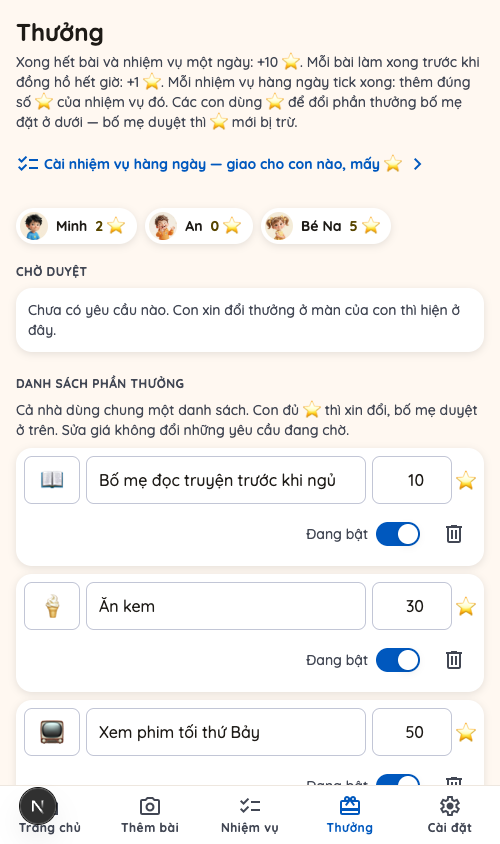
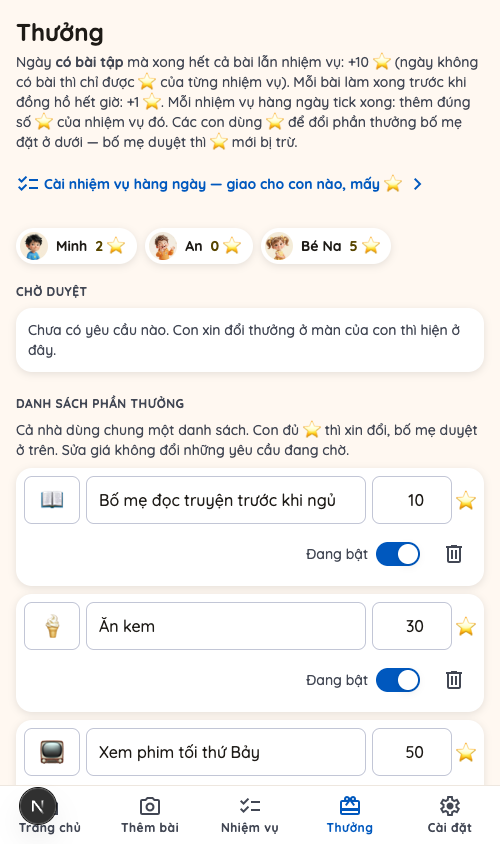
no-mistakes(review): fix: một hàng rào ngày đã qua dùng chung, sửa chữ hứa +10

Changed region(s): [[0.03, 0.0616, 0.96, 0.955], [0.03, 0.7393, 0.06, 0.7701]]

diff --git a/lib/store.ts b/lib/store.ts
@@ -443,35 +443,10 @@ export async function saveSubmission(input: {
   //
   // ĐỪNG BỎ loi goi nay du no khong con can cho HIEN THI (tu #42 tao luoi da
   // chay o man cua con, progressUpcoming va chi tiet con cua bo me; man cua con
-  // cung khong ve dong cua ngay mai nua — xem lib/nhomNhiemVu.ts). No dang gac
-  // +10 CUA NGAY MAI: `ghiDiemSauKhiXong` goi `congDiemNgayNeuXong` voi ngay cua
-  // chinh bai vua tick, va ham do +10 khi MOI dong cua (con, ngay do) da 'done'
-  // — khong co kiem "ngay do da toi chua". Bo me nhap bai ngay mai toi nay, con
-  // lam het bai ngay mai ngay toi nay (duoc phep, co ve duoi "Ngày mai"): neu
-  // dong nhiem vu cua ngay mai chua ton tai thi tap dong cua ngay mai chi co bai
-  // -> +10 cua ngay mai cong NGAY TOI NAY, sang mai con tick nhiem vu that thi
-  // khong con gi de cong. Dong 'todo' tao san chinh la cai chan do — hai test
-  // "bai cua NGAY MAI lam xong toi nay..." va "cai gia neu KHONG tao san dong
-  // nhiem vu cua ngay mai..." trong lib/tinh-diem.test.ts ghim ca hai nhanh.
-  //
-  // Day la hang rao BEST-EFFORT: khoi duoi nuot loi (xem ngay duoi), nen mot lan
-  // INSERT that bat (Neon rot ket noi) la +10 cua ngay mai co the cong som ma
-  // khong bao gi. Doi thanh chac chan thi phai them kiem "ngay do da toi chua"
-  // vao congDiemNgayNeuXong — nhung the lai mo lo khac: con khong duoc giao
-  // nhiem vu nao ma lam het bai ngay mai toi nay thi sang mai KHONG con cu tick
-  // nao de kich +10 (cong diem theo su kien, khong co cron).
-  //
-  // Idempotent nen goi thua khong sao.
-  //
-  // Nuot loi, y het seedDefaultChores o insertFamily: cac dong bai tap that o
-  // tren da ghi xong va khong chung transaction voi khoi nay, nen nem loi len se
-  // tra 500 cho mot dot nhap DA THANH CONG — bo me nhap lai la sinh ban sao ca
-  // dot bai. Bai tap la bat buoc, nhiem vu chi la "co thi tot".
-  try {
-    await taoNhiemVuNgay(input.familyId, input.dueDate, childIds);
-  } catch (e) {
-    console.error('Khong tao duoc dong nhiem vu cho ngay', input.dueDate, e);
-  }
+  // cung khong ve dong cua ngay mai nua — xem lib/nhomNhiemVu.ts): no dang GAC
+  // +10 cua ngay mai. Ly do day du + hang rao ngay da qua o
+  // `taoNhiemVuNgayNeuChuaQua` ben duoi.
+  await taoNhiemVuNgayNeuChuaQua(input.familyId, input.dueDate, childIds);
 
   return created;
 }
@@ -768,11 +743,14 @@ export const VIEC_NHA_SUBJECT = 'Việc nhà';
  * tao moi dong mot lan, hai request mo man cung luc cung khong tao trung, va
  * khong can buoc SELECT-kiem-truoc nao. Khong co gi de chen thi la no-op re.
  *
- * Goi tu: man cua con (hom nay, con do), progressUpcoming (hom nay, ca nha —
- * man chon-con va tong quan bo me), man chi tiet con cua bo me, va
- * saveSubmission (ngay cua dot bai, cac con duoc giao — ke ca ngay mai). Ngay
- * khong ai mo man thi khong co dong cho ngay do — chap nhan: khong ai tick thi
- * cung khong co gi de ghi.
+ * NAM noi goi: (1) man cua con (hom nay, con do), (2) progressUpcoming (hom nay,
+ * ca nha — man chon-con va tong quan bo me), (3) man chi tiet con cua bo me,
+ * (4) saveSubmission (ngay cua dot bai) va (5) xuLySauKhiDoiHanChot (ngay MOI khi
+ * bo me doi han chot). Ba noi dau luon truyen HOM NAY; hai noi sau truyen ngay
+ * BO ME CHON nen goi qua `taoNhiemVuNgayNeuChuaQua` — ham nay khong tu chan ngay
+ * qua khu (no chi la mot cau SQL, va ba tep test mo phong dung no). Ngay khong ai
+ * mo man thi khong co dong cho ngay do — chap nhan: khong ai tick thi cung khong
+ * co gi de ghi.
  *
  * CHEP stars/icon/content vao dong luc tao (tien le: content o 013, gia phan
  * thuong o 015): bo me sua cau hinh sau do chi anh huong dong tao SAU. Nhom thi
@@ -801,20 +779,58 @@ export async function taoNhiemVuNgay(
 }
 
 /**
+ * `taoNhiemVuNgay` cho hai duong mà NGAY do BO ME CHON (nhap bai, doi han chot) —
+ * mot cho duy nhat giu ca hai luat, de khong con noi nao phai nho:
+ *
+ * 1. CHI tao cho ngay TU HOM NAY TRO DI. Ngay da qua thi khong con gi phai gac
+ *    (khong the cong +10 som cho no nua), ma them mot dong 'todo' KHONG AI TICK
+ *    DUOC (man cua con liet ke tu hom nay) la khoa luon +10 cua ngay do mai mai:
+ *    bo me nhap bu mot bai cho ngay 1/9 sau khi vua them mot nhiem vu moi thi
+ *    ngay 1/9 nhan mot dong nhiem vu la, va ngay do khong bao gio "xong het" nua.
+ * 2. Ngay TU HOM NAY TRO DI thi PHAI tao — day la hang rao "+10 cua ngay mai":
+ *    `congDiemNgayNeuXong` +10 khi MOI dong cua (con, ngay do) da 'done' va
+ *    KHONG kiem "ngay do da toi chua". Bo me nhap bai / doi han chot sang NGAY
+ *    MAI roi con lam xong bai do ngay toi nay (duoc phep, co ve duoi "Ngày mai"):
+ *    neu dong nhiem vu cua ngay mai chua ton tai thi tap dong cua ngay mai chi co
+ *    bai -> +10 cua ngay mai cong NGAY TOI NAY, sang mai con lam nhiem vu that
+ *    thi khong con gi de cong. Dong 'todo' tao san chinh la cai chan do.
+ *    Doi thanh chac chan bang cach them kiem "ngay do da toi chua" vao
+ *    `congDiemNgayNeuXong` thi mo lo khac: con khong duoc giao nhiem vu nao ma
+ *    lam het bai ngay mai toi nay thi sang mai KHONG con cu tick nao de kich +10
+ *    (cong diem theo su kien, khong co cron).
+ *
+ * BEST-EFFORT, nuot loi y het seedDefaultChores o insertFamily: cac dong bai tap
+ * that da ghi xong va khong chung transaction voi loi goi nay, nem loi len se tra
+ * 500 cho mot dot nhap / mot lan sua DA THANH CONG — bo me lam lai la sinh ban
+ * sao ca dot bai. Bai tap la bat buoc, nhiem vu chi la "co thi tot". Nghia la mot
+ * lan INSERT that bat (Neon rot ket noi) van co the de +10 cong som ma khong bao
+ * gi. Idempotent nen goi thua khong sao.
+ *
+ * Test ghim ca ba nhanh (tao cho ngay mai / khong tao cho ngay da qua / cai gia
+ * neu khong tao) o lib/tinh-diem.test.ts.
+ */
+async function taoNhiemVuNgayNeuChuaQua(
+  familyId: string,
+  date: string,
+  childIds: string[] | null
+): Promise<void> {
+  if (date < todayISO()) return;
+  try {
+    await taoNhiemVuNgay(familyId, date, childIds);
+  } catch (e) {
+    console.error('Khong tao duoc dong nhiem vu cho ngay', date, e);
+  }
+}
+
+/**
  * Hai viec phai lam SAU KHI bo me doi han chot cua mot bai (route PATCH
  * /api/assignments/:id, nhanh bo me) — de o lop nay chu khong o tep route vi ca
  * hai la LUAT, va bo test PGlite chi voi tay den duoc lop nay:
  *
  * 1. Ngay MOI phai co dong nhiem vu cua no — cung hang rao ma saveSubmission
- *    dung: `congDiemNgayNeuXong` KHONG kiem "ngay do da toi chua", nen doi mot
- *    bai sang NGAY MAI roi con lam xong bai do ngay toi nay se lam tap dong cua
- *    ngay mai chi con mot bai -> +10 cua ngay mai bay ra som mot ngay, va sang
- *    mai con lam nhiem vu that thi khong con gi de cong.
- *    CHI tao cho ngay TU HOM NAY TRO DI: ngay da qua thi khong con gi phai gac
- *    (khong the cong som cho no nua), ma them dong 'todo' khong ai tick duoc
- *    (man cua con liet ke tu hom nay) la khoa luon +10 cua ngay do mai mai.
- *    Nuot loi y het saveSubmission: dong bai da ghi xong va khong chung
- *    transaction, nem loi len la tra 500 cho mot lan sua DA THANH CONG.
+ *    dung, cung mot ham: `taoNhiemVuNgayNeuChuaQua` (doc chu thich o do de biet
+ *    vi sao PHAI tao cho ngay tu hom nay tro di va vi sao KHONG tao cho ngay da
+ *    qua).
  * 2. Ngay CU vua BOT mot dong: cac dong con lai co the da done het, ma con thi
  *    khong tick gi nua nen duong cua con khong bao gio xet lai. Xet o day,
  *    idempotent nen an toan.
@@ -825,13 +841,7 @@ export async function xuLySauKhiDoiHanChot(
   ngayCu: string,
   ngayMoi: string
 ): Promise<void> {
-  if (ngayMoi >= todayISO()) {
-    try {
-      await taoNhiemVuNgay(familyId, ngayMoi, [childId]);
-    } catch (e) {
-      console.error('Khong tao duoc dong nhiem vu cho ngay', ngayMoi, e);
-    }
-  }
+  await taoNhiemVuNgayNeuChuaQua(familyId, ngayMoi, [childId]);
   await congDiemNgayNeuXong(familyId, childId, ngayCu);
 }
 

diff --git a/lib/tinh-diem.test.ts b/lib/tinh-diem.test.ts
@@ -169,9 +169,14 @@ async function ghiDiem(asgId: string, familyId = 'fam_cu') {
  * Ca cu tick cua con: danh dau xong luc `nowMs` kem moc bat dau `startedAtMs`
  * (null = khong bam dong ho), roi route ghi diem.
  */
-async function tickXong(asgId: string, startedAtMs: number | null, nowMs = Date.now()) {
+async function tickXong(
+  asgId: string,
+  startedAtMs: number | null,
+  nowMs = Date.now(),
+  familyId = 'fam_cu'
+) {
   await danhDauXong(asgId, startedAtMs, nowMs);
-  return ghiDiem(asgId);
+  return ghiDiem(asgId, familyId);
 }
 
 /** `sao` = stars cua dong nhiem vu (chep tu cau hinh luc tao); bo trong = NULL = dong cu / bai that. */
@@ -606,8 +611,18 @@ async function giaoBai(
   opts: { taoNhiemVu?: boolean } = {}
 ) {
   const bai = await themBai(childId, dueDate);
-  if (opts.taoNhiemVu !== false) await taoNhiemVuNgay(familyId, dueDate, childId);
+  if (opts.taoNhiemVu !== false) await taoNhiemVuNeuChuaQua(familyId, dueDate, childId);
   return bai;
+}
+
+/**
+ * Mo phong `taoNhiemVuNgayNeuChuaQua` (lib/store.ts): hai duong bo me tu chon
+ * ngay (nhap bai, doi han chot) chi tao dong nhiem vu cho ngay TU HOM NAY TRO DI.
+ */
+async function taoNhiemVuNeuChuaQua(familyId: string, dueDate: string, childId: string) {
+  const [{ hom_nay }] = await rows(`SELECT CURRENT_DATE::text AS hom_nay`);
+  if (dueDate < String(hom_nay)) return;
+  await taoNhiemVuNgay(familyId, dueDate, childId);
 }
 
 /**
@@ -671,9 +686,8 @@ async function doiNgay(
     [asgId]
   );
   await db.query(`UPDATE assignments SET due_date = $2::date WHERE id = $1`, [asgId, ngayMoi]);
-  const [{ hom_nay }] = await rows(`SELECT CURRENT_DATE::text AS hom_nay`);
-  if (opts.taoNhiemVu !== false && ngayMoi >= String(hom_nay)) {
-    await taoNhiemVuNgay(familyId, ngayMoi, String(truoc.child_id));
+  if (opts.taoNhiemVu !== false) {
+    await taoNhiemVuNeuChuaQua(familyId, ngayMoi, String(truoc.child_id));
   }
   return congDiemNgay(familyId, String(truoc.child_id), String(truoc.due_date));
 }
@@ -788,6 +802,66 @@ test('cai gia neu KHONG tao san dong nhiem vu cua ngay mai: +10 cong som mot nga
     truoc + DIEM_NGAY_XONG + 1,
     'con an +10 cho mot ngay ma luc cong chua lam nhiem vu nao'
   );
+});
+
+/**
+ * Duong nhap bai BU cho mot ngay DA QUA (o date cua /bome/them khong co `min`,
+ * bo me chon duoc ngay hom qua). Neu tao dong nhiem vu cho ngay do thi nhiem vu
+ * VUA THEM sinh ra mot dong 'todo' cho mot ngay ma man cua con khong con ve
+ * (liet ke tu hom nay) — khong ai tick duoc, va ngay do khong bao gio "xong het"
+ * nua, tuc +10 cua ngay do bi khoa mai mai.
+ *
+ * Nha rieng voi `score_since` cu (30 ngay truoc) de ngay hom qua VAN duoc tinh
+ * diem — khong thi cua chan "khong hoi to" da loai truoc, khong thay duoc gi.
+ */
+test('nhap bai bu cho ngay DA QUA: khong sinh dong nhiem vu, ngay do van cong duoc +10', async () => {
+  await db.exec(
+    `INSERT INTO families (id, name, slug, parent_pin_hash, score_since)
+     VALUES ('fam_bu', 'Nhà bù', 'nha-bu', 'h9', CURRENT_DATE - 30);
+     INSERT INTO children (id, family_id, name, grade, color, avatar_url)
+     VALUES ('con_bu', 'fam_bu', 'Bù', 'Lớp 1', 'primary', '/bu.png');
+     INSERT INTO daily_chores (id, family_id, content, sort_order)
+     VALUES ('chr_bu', 'fam_bu', 'Tắt đèn', 1)`
+  );
+  const [{ hom_qua, hom_kia }] = await rows(
+    `SELECT (CURRENT_DATE - 1)::text AS hom_qua, (CURRENT_DATE - 2)::text AS hom_kia`
+  );
+
+  // Bo me nhap bu mot bai cho HOM QUA.
+  const bai = await giaoBai('fam_bu', 'con_bu', String(hom_qua));
+  assert.deepEqual(
+    await rows(
+      `SELECT id FROM assignments
+        WHERE child_id = 'con_bu' AND due_date = $1 AND chore_id IS NOT NULL`,
+      [hom_qua]
+    ),
+    [],
+    'khong sinh dong nhiem vu nao cho ngay da qua'
+  );
+
+  const truoc = await soDu('con_bu');
+  assert.deepEqual(
+    await tickXong(bai, null, undefined, 'fam_bu'),
+    { xongSom: 0, ngayXong: DIEM_NGAY_XONG, nhiemVu: 0 },
+    'khong co dong nhiem vu la nao chan -> ngay do cong duoc +10'
+  );
+  assert.equal(await soDu('con_bu'), truoc + DIEM_NGAY_XONG);
+
+  // Cai gia neu KHONG co hang rao: mot dong nhiem vu 'todo' cua ngay da qua
+  // (dong ma man cua con khong ve) khoa luon +10 cua ngay do.
+  const baiKia = await giaoBai('fam_bu', 'con_bu', String(hom_kia), { taoNhiemVu: false });
+  await db.query(
+    `INSERT INTO assignments (id, child_id, subject, content, due_date, status, chore_id, stars)
+     VALUES ($1, 'con_bu', 'Việc nhà', 'Tắt đèn', $2, 'todo', 'chr_bu', 1)`,
+    [id('asg'), hom_kia]
+  );
+  const truocKia = await soDu('con_bu');
+  assert.deepEqual(
+    await tickXong(baiKia, null, undefined, 'fam_bu'),
+    { xongSom: 0, ngayXong: 0, nhiemVu: 0 },
+    'dong nhiem vu la cua ngay da qua chan +10, ma khong con duong nao tick no'
+  );
+  assert.equal(await soDu('con_bu'), truocKia, 'ngay do mat +10 vinh vien');
 });
 
 test('score_events chan diem am va kind la (CHECK)', async () => {

diff --git a/app/bome/(khung)/thuong/page.tsx b/app/bome/(khung)/thuong/page.tsx
@@ -51,9 +51,9 @@ export default async function Page() {
     <main className="px-p-page pt-4 xl:max-w-lg xl:mx-auto">
       <h1 className="text-p-headline text-on-background mb-1">Thưởng</h1>
       <p className="text-p-body-sm text-on-surface-variant mb-2">
-        Xong hết bài và nhiệm vụ một ngày: +{DIEM_NGAY_XONG} ⭐. Mỗi bài làm xong trước khi đồng hồ
-        hết giờ: +{DIEM_XONG_SOM} ⭐. Mỗi nhiệm vụ hàng ngày tick xong: thêm đúng số ⭐ của nhiệm
-        vụ đó. Các con dùng ⭐ để đổi phần thưởng bố mẹ đặt ở dưới — bố mẹ duyệt thì ⭐ mới bị trừ.
+        Ngày <b>có bài tập</b> mà xong hết cả bài lẫn nhiệm vụ: +{DIEM_NGAY_XONG} ⭐ (ngày không
+        có bài thì chỉ được ⭐ của từng nhiệm vụ). Mỗi bài làm xong trước khi đồng hồ hết giờ:
+        +{DIEM_XONG_SOM} ⭐. Mỗi nhiệm vụ hàng ngày tick xong: thêm đúng số ⭐ của nhiệm vụ đó. Các con dùng ⭐ để đổi phần thưởng bố mẹ đặt ở dưới — bố mẹ duyệt thì ⭐ mới bị trừ.
       </p>
       {/* Dong dan sang trang cai nhiem vu (issue #42 Q8) — cach kiem ⭐ nam o do */}
       <Link

diff --git a/app/bome/(khung)/nhiem-vu-hang-ngay/page.tsx b/app/bome/(khung)/nhiem-vu-hang-ngay/page.tsx
@@ -35,7 +35,8 @@ export default async function Page() {
         Mỗi ngày — kể cả cuối tuần và ngày không có bài — các nhiệm vụ này hiện trên màn của
         từng con, chia hai nhóm <b>{NHOM_NHIEM_VU.after_study.label}</b> và{' '}
         <b>{NHOM_NHIEM_VU.housework.label}</b>. Bố mẹ và con cùng tick ở đó; tick xong là được ⭐
-        của nhiệm vụ ngay, xong hết cả bài lẫn nhiệm vụ trong ngày được thêm +{DIEM_NGAY_XONG} ⭐.
+        của nhiệm vụ ngay, và ngày nào <b>có bài tập</b> mà xong hết cả bài lẫn nhiệm vụ thì được
+        thêm +{DIEM_NGAY_XONG} ⭐ (ngày không có bài thì chỉ có ⭐ của từng nhiệm vụ).
         Cả nhà dùng chung một danh sách; sửa chỉ ảnh hưởng những ngày sau, ⭐ đã cộng không bị rút.
       </p>
 

diff --git a/app/con/page.tsx b/app/con/page.tsx
@@ -153,7 +153,8 @@ export default async function ChonCon() {
             </h2>
             {chuaAiCoDiem ? (
               <p className="text-k-body text-on-surface-variant text-center">
-                Làm xong hết bài và nhiệm vụ một ngày là được {DIEM_NGAY_XONG} ⭐, mỗi nhiệm vụ xong còn được thêm ⭐ nữa!
+                Mỗi nhiệm vụ xong là được ⭐ ngay. Ngày nào có bài tập mà làm xong hết cả bài
+                lẫn nhiệm vụ thì được thêm {DIEM_NGAY_XONG} ⭐ nữa!
               </p>
             ) : (
               <ol className="flex flex-row flex-wrap justify-center gap-x-10 gap-y-3">

diff --git a/AGENTS.md b/AGENTS.md
@@ -104,14 +104,16 @@ ba tệp test PGlite đều import từ đó (tệp không import gì lúc chạ
 `node --test` và `node scripts/seed.mjs` đều nạp được); chỉ còn ba hằng số
 `subject`/`source`/`duration` là seed/test truyền tay.
 
-**Hàng rào "+10 của ngày mai" nằm ở HAI lời gọi**: `saveSubmission` (bố mẹ nhập
-bài cho ngày mai) và `xuLySauKhiDoiHanChot` (bố mẹ đổi hạn chót sang ngày mai).
-`congDiemNgayNeuXong` không kiểm "ngày đó đã tới chưa", nên dòng nhiệm vụ `'todo'`
-tạo sẵn của ngày đó là thứ duy nhất chặn +10 cộng sớm một ngày — đọc chú thích ở
-cả hai nơi trước khi định bỏ. `xuLySauKhiDoiHanChot` chỉ tạo cho ngày **từ hôm nay
-trở đi** (ngày đã qua thì không còn gì phải gác, mà thêm dòng không ai tick được
-là khoá luôn +10 của ngày đó). Cả hai đều best-effort (nuốt lỗi để không 500 một
-lần ghi đã thành công); test ghim ở `lib/tinh-diem.test.ts`.
+**Hàng rào "+10 của ngày mai" nằm ở MỘT hàm**: `taoNhiemVuNgayNeuChuaQua` — hai
+đường mà bố mẹ tự chọn ngày (`saveSubmission` khi nhập bài, `xuLySauKhiDoiHanChot`
+khi đổi hạn chót) đều gọi nó, đừng gọi `taoNhiemVuNgay` trực tiếp từ đó nữa. Hàm
+đó giữ cả hai chiều của cùng một luật, đọc chú thích ở đó trước khi định sửa:
+`congDiemNgayNeuXong` không kiểm "ngày đó đã tới chưa", nên (a) ngày **từ hôm nay
+trở đi** PHẢI có dòng nhiệm vụ `'todo'` — nó là thứ duy nhất chặn +10 cộng sớm một
+ngày; (b) ngày **đã qua** thì KHÔNG được tạo — không còn gì phải gác, mà thêm một
+dòng không ai tick được (màn của con liệt kê từ hôm nay) là khoá luôn +10 của ngày
+đó. Best-effort (nuốt lỗi để không 500 một lần ghi đã thành công); ba nhánh đều có
+test ở `lib/tinh-diem.test.ts`.
 
 `stars`/`icon`/`content` CHÉP vào dòng lúc tạo (sửa cấu hình chỉ ảnh hưởng dòng
 tạo sau, và **tắt công tắc chỉ ngăn dòng tạo SAU** — dòng của hôm nay đã tạo vẫn

diff --git a/README.md b/README.md
@@ -289,7 +289,8 @@ màn tổng quan và tiến độ bài tập ở hai màn của bố mẹ **khô
 vụ là bài tập thật, nút **"Xoá tất cả bài tập và việc nhà"** xoá luôn cả lịch sử.
 
 **Điểm thưởng.** Xong hết một ngày (cả bài tập **lẫn** nhiệm vụ của ngày đó) được
-**+10 điểm**, cộng một lần cho mỗi con mỗi ngày; mỗi bài xong sớm hơn thời lượng
+**+10 điểm**, cộng một lần cho mỗi con mỗi ngày — ngày đó phải **có ít nhất một
+bài tập**, nên cuối tuần chỉ có nhiệm vụ thì con chỉ được ⭐ của từng nhiệm vụ; mỗi bài xong sớm hơn thời lượng
 dự kiến của chính bài đó được **+1**; mỗi **nhiệm vụ hàng ngày** tick xong được
 thêm **đúng số ⭐ của nó** (cộng thêm, không thay +10; cộng một lần cho mỗi dòng —
 bỏ tick không rút, tick lại không cộng lại; dòng việc nhà cũ tạo trước khi có sao
